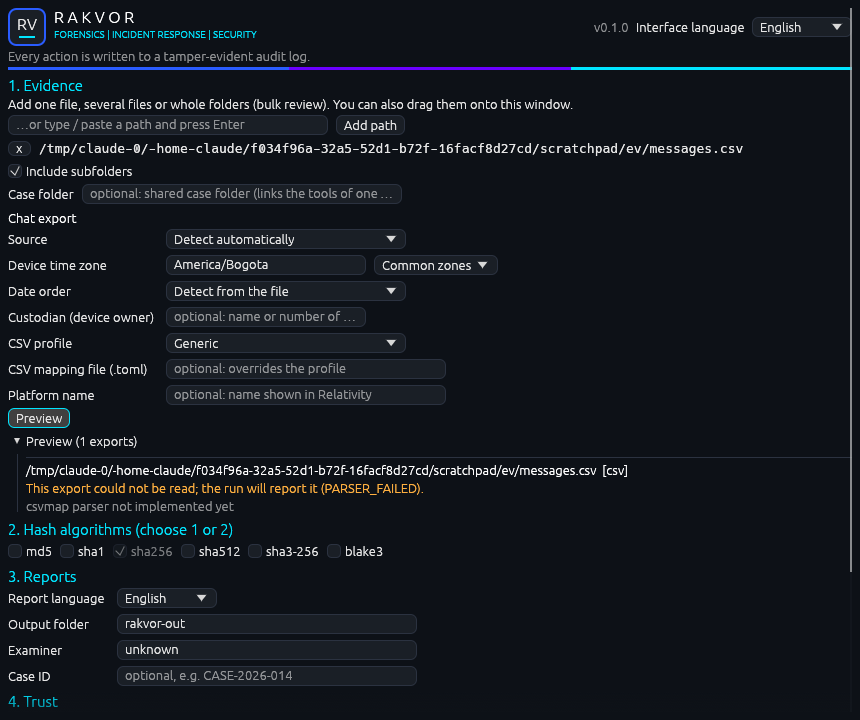
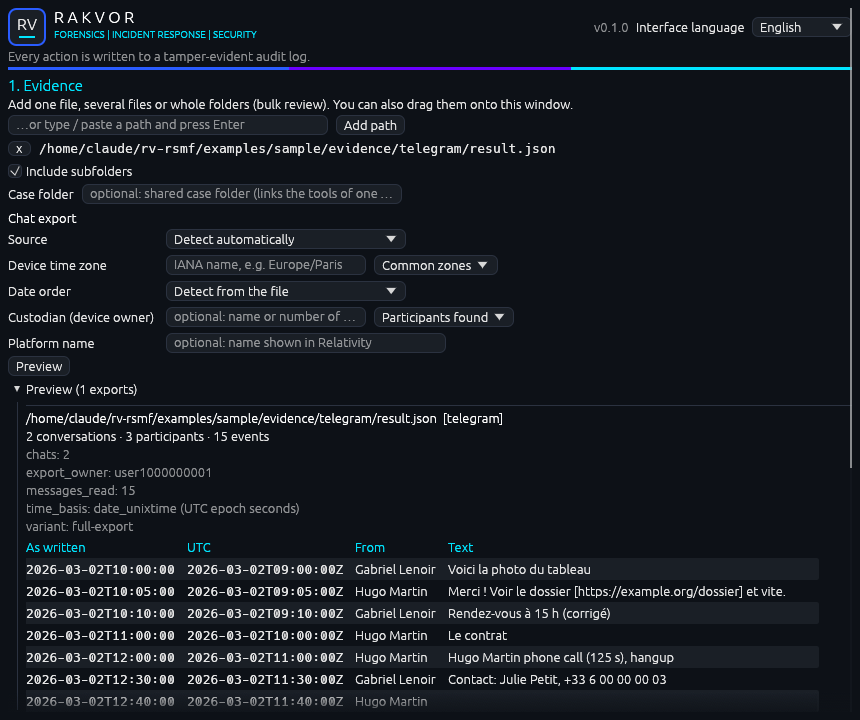
feat(gui): preview files given at launch; screenshot of a Telegram preview
Claude-Session: https://claude.ai/code/session_01YQGBXWwVMFVnEJY8B3sz6g

diff --git a/src/gui/src/app.rs b/src/gui/src/app.rs
@@ -92,6 +92,11 @@ impl HashInvApp {
         for p in paths {
             app.state.add_input(p);
         }
+        // Files dropped on the .exe (or given on the command line) are previewed at once, so the examiner
+        // sees how the dates are read before choosing anything.
+        if !app.state.inputs.is_empty() {
+            app.state.preview();
+        }
         app
     }
 
